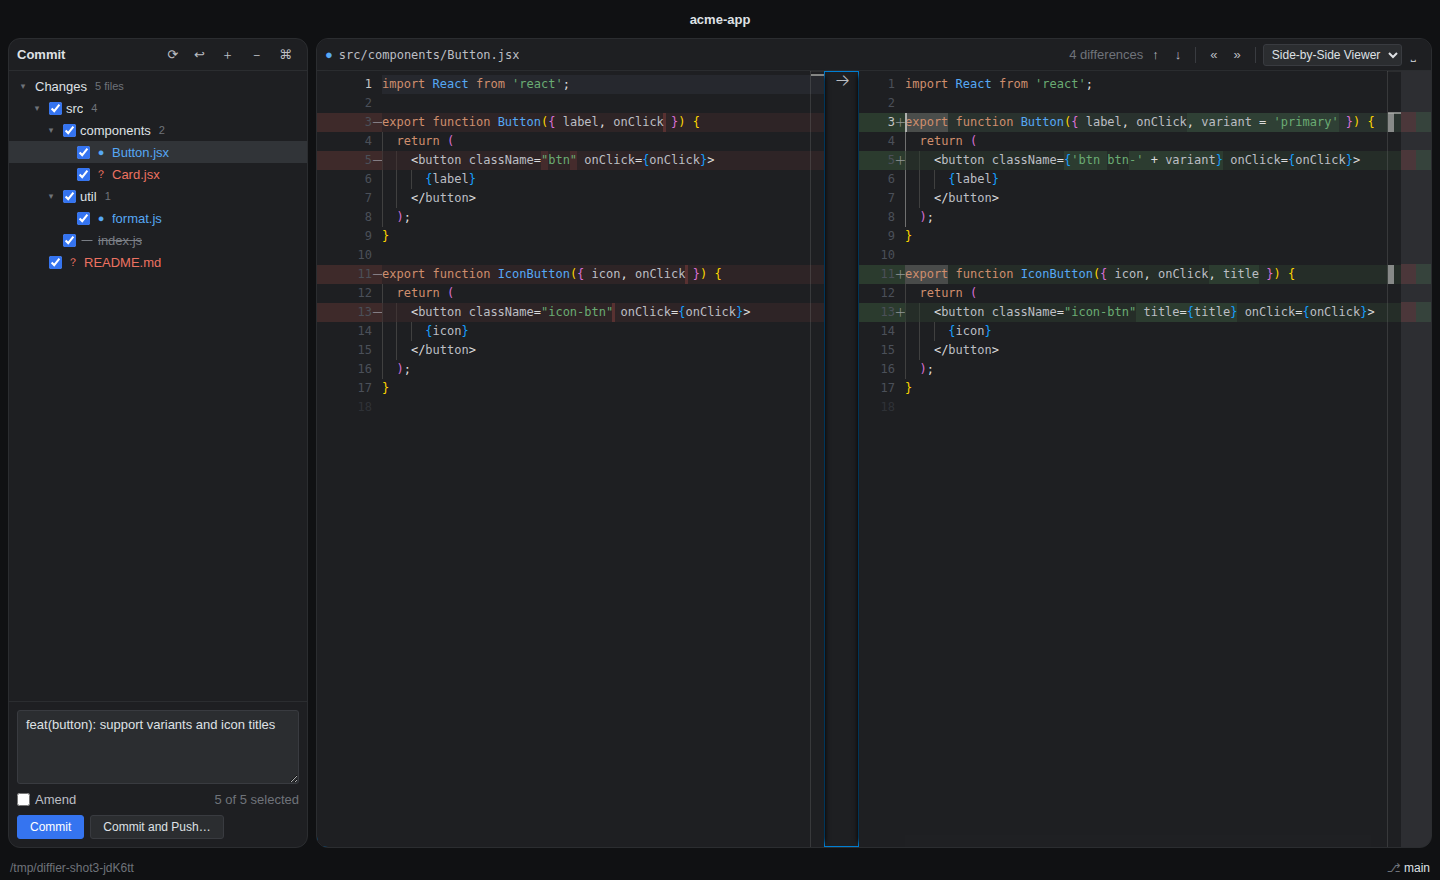
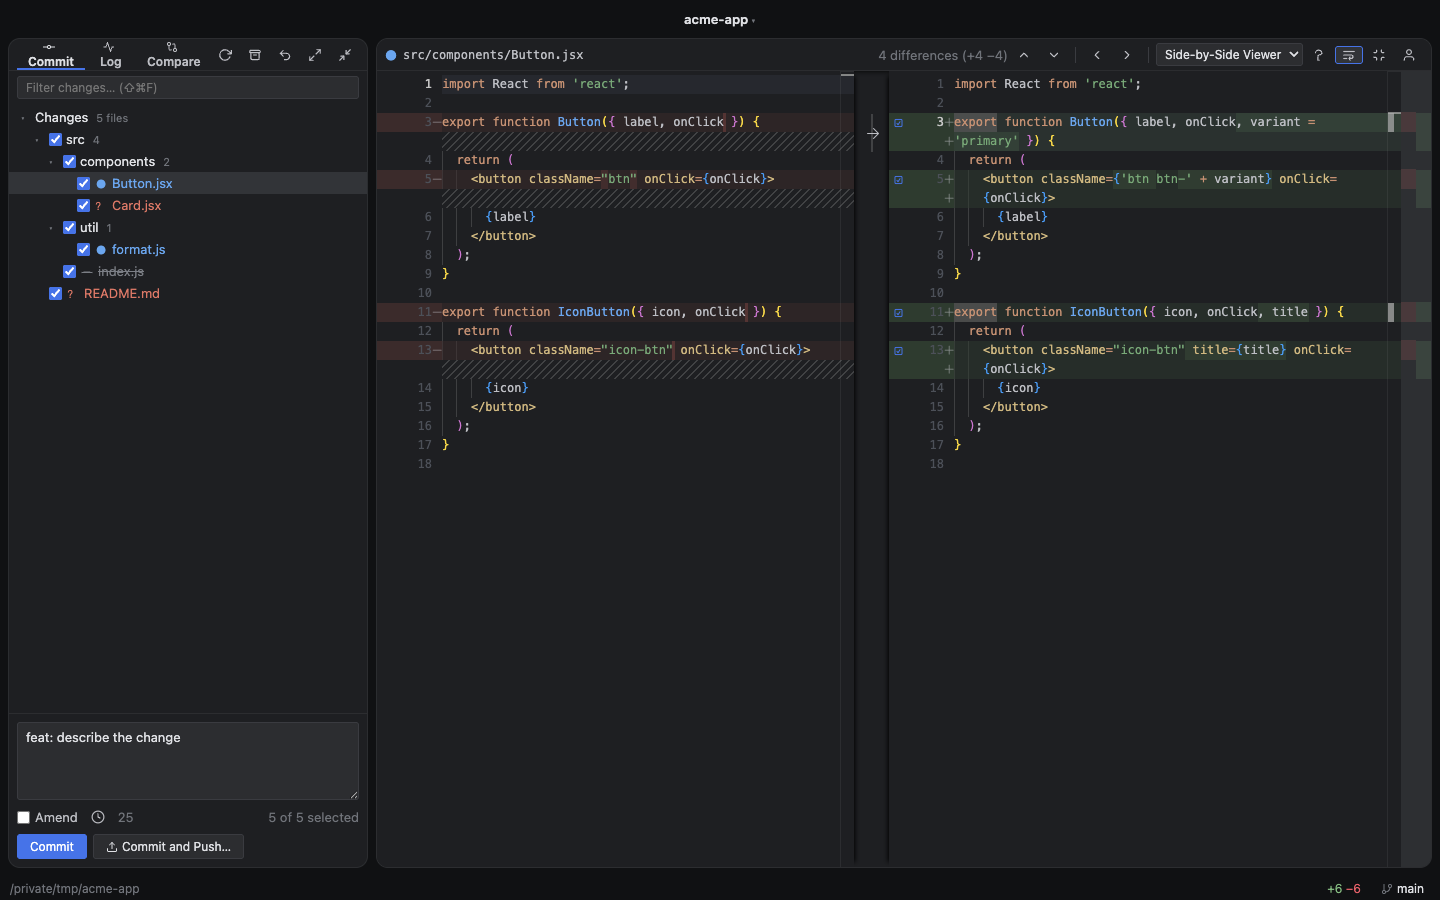
Update README screenshots and fix stale docs
Screenshots were from before the Commit/Log/Compare toolbar redesign.
Also documents the Compare tab, zoom shortcuts, and mermaid rendering
in the markdown preview, and fills in four files missing from the
Architecture tree (zoom, markdown, compare, about-dialog).

Adds a run-diffier skill (fixture repo + Playwright driver) so future
screenshot regens don't rediscover the isolated-profile/scale-factor
gotchas.

diff --git a/README.md b/README.md
@@ -72,6 +72,8 @@ working-tree changes in any Git repository.
   message, metadata, and changed files; click a file for a read-only diff
   of that revision. Right-click a changed file for **Show History** — the
   log filtered to that file (following renames).
+- **Compare tab** — diff any two refs (branches, tags, or raw commit
+  hashes) against each other, independent of the working tree.
 - **Merge conflict resolution** — conflicted files open in a resolve
   editor: ours/theirs regions highlighted and labeled with the real branch
   names, per-conflict **Accept Ours / Accept Theirs / Accept Both**
@@ -86,7 +88,8 @@ working-tree changes in any Git repository.
   a preview toggle.
 - **Markdown preview** — markdown files get a toolbar toggle that swaps
   the text diff for rendered Old | New panes (scroll-synced); links open
-  in the system browser, and raw HTML in the file renders as literal text.
+  in the system browser, raw HTML in the file renders as literal text, and
+  mermaid fences render as diagrams.
 - **Rollback** — IntelliJ semantics: tracked files revert to HEAD, renames
   are undone, unversioned files are deleted (with confirmation).
 - **Multi-repo** — the titlebar is a repo switcher with recent
@@ -132,6 +135,8 @@ tooltips. Tree navigation (`↑` `↓` `←` `→` `Space` `⏎`) is fixed.
 | `⌘0` | Toggle the commit tool window |
 | `⌘O` | Open a repository |
 | `⌘R` | Refresh file status |
+| `⌘=` / `⌘-` | Zoom in / out (diff & markdown font size) |
+| `⌘⇧0` | Reset zoom |
 | `⌘,` | Settings (theme + keymap) |
 
 Fetch, Stash, and Blame Annotations are unbound by default — bind them in
@@ -221,8 +226,10 @@ renderer/
     theme.ts           Theme application and shiki theme mapping
     keymap.ts          Keybinding state, normalization, event matching
     editor.ts          Monaco bootstrap, diff editor, language detection
+    zoom.ts            Session-only font-size zoom for editors/markdown
     staging.ts         Partial (per-hunk) staging and commit selection
     tree.ts            Changes tree: model, windowed rendering, filter
+    markdown.ts        Hand-written GFM renderer for the markdown preview
     diff-view.ts       Diff pane: worktree/commit diffs, image preview
     conflict.ts        Merge conflict resolution editor
     blame.ts           Inline git blame annotations
@@ -232,8 +239,10 @@ renderer/
     popups.ts          Popup infra, branch popup, msg history, repo switcher
     stash.ts           Stash dialog
     log.ts             Log tab: lane graph, commit details, file history
+    compare.ts         Compare tab: diff two arbitrary refs
     actions.ts         Action registry and global keyboard handling
     settings-dialog.ts Settings dialog: theme picker and keymap editor
+    about-dialog.ts    About dialog: app identity, version, license
     boot.ts            Menu IPC, toolbar wiring, splitter, startup
   languages.ts Language metadata: detection, aliases, Monarch fallbacks
   highlighter-entry.ts

diff --git a/.claude/skills/run-diffier/SKILL.md b/.claude/skills/run-diffier/SKILL.md
@@ -1,0 +1,53 @@
+---
+name: run-diffier
+description: Launch Diffier (this repo's own Electron app) against a demo repo and take a screenshot. Use when asked to run/screenshot the app, or to regenerate the README/docs images.
+---
+
+Diffier is macOS-only per the README, but the Electron binary launches fine
+locally via Playwright's `_electron` — no xvfb needed on a real macOS
+session.
+
+## Build first
+
+```sh
+yarn build
+```
+
+## Generate a demo repo
+
+`demo-repo.mjs` builds the exact fixture used for `docs/screenshot.png` /
+`docs/theme-light.png`: one committed file per VCS-status color the Changes
+tree renders (modified, added/untracked, deleted, untracked at repo root).
+
+```sh
+node .claude/skills/run-diffier/demo-repo.mjs /tmp/acme-app
+```
+
+## Screenshot
+
+```sh
+node .claude/skills/run-diffier/driver.mjs /tmp/acme-app docs/screenshot.png
+node .claude/skills/run-diffier/driver.mjs /tmp/acme-app docs/theme-light.png light
+```
+
+Args: `<repo-dir> <out.png> [light] [user-data-dir]`.
+
+## Gotchas
+
+- **Never launch without `--user-data-dir`.** Electron defaults to the real
+  `~/Library/Application Support/Diffier` profile, which on a dev machine
+  already has personal settings (theme, `panelSide`, window size) persisted
+  from real use. A screenshot taken against that profile silently reflects
+  someone's personal customization, not the app's defaults — this produced a
+  completely different (mirrored) panel layout the first time. The driver
+  always passes an isolated `--user-data-dir` for this reason.
+- **Force `--force-device-scale-factor=1`.** Without it, a Retina display
+  produces a 2x (2880x1800) capture instead of the 1440x900 the committed
+  assets use.
+- `window.setTheme(id)` (not `window.api.setSettings`) is what actually
+  applies a theme live in the renderer — `setSettings` alone only persists
+  it to disk, it doesn't touch the DOM. Theme ids: `islands-dark` (default),
+  `islands-light`, `darcula`, `diffier-dark` (see `main/themes.ts`).
+- `page.screenshot()` only captures the web content, not native window
+  chrome — the macOS traffic-light buttons never appear in a Diffier
+  screenshot regardless of `titleBarStyle`.
